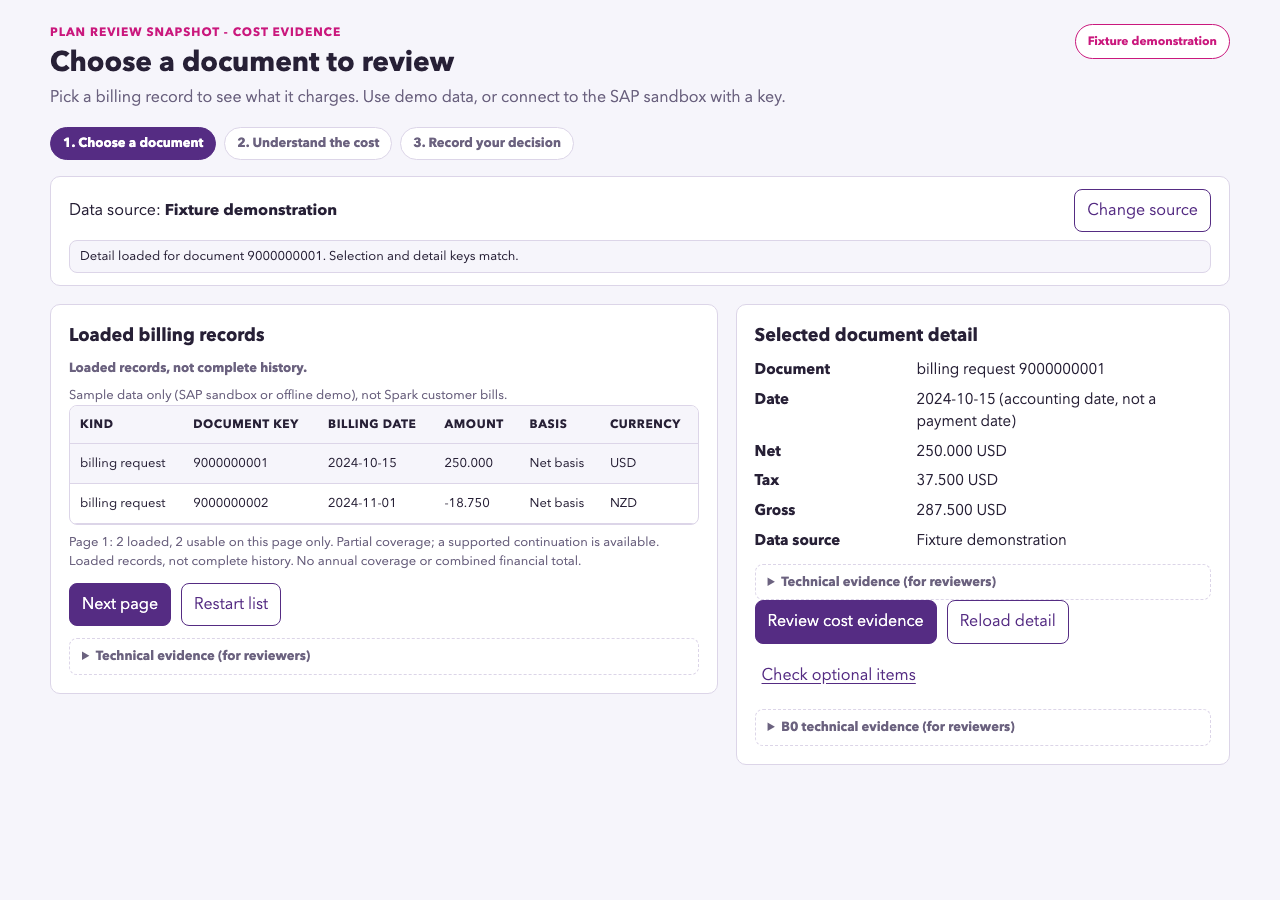
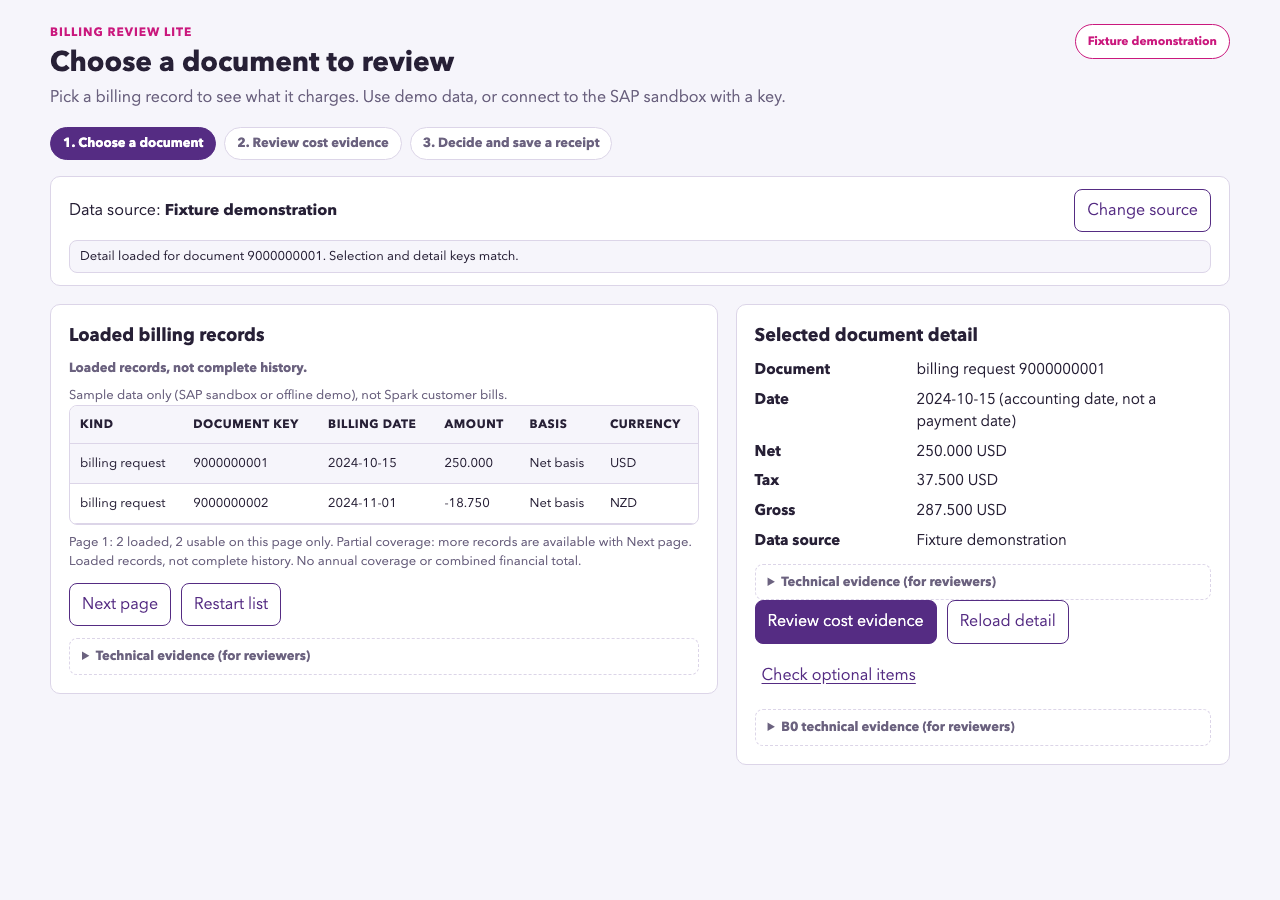
docs(#36): records and after screenshots for the usability polish

diff --git a/docs/development/issue-36-opencode.md b/docs/development/issue-36-opencode.md
@@ -7,15 +7,16 @@
 - **Tool:** OpenCode.
 - **Model:** `opencode` / `deepseek-v4.1-flash-free` (DeepSeek V4.1 Flash Free), used for the
   whole task.
-- **Session:** one continuous OpenCode session covered Parts 0–5 on this single branch. No
-  other project or branch was driven by this session for #36.
+- **Session:** one continuous OpenCode session covered Parts 0–7: branch
+  `feat/36-usability-hierarchy` (Parts 0–6) and this follow-up branch
+  `feat/36-usability-polish` (Part 7). No other project was driven by this session for #36.
 - No credentials, keys or tokens are recorded here. Independent review/acceptance evidence is
   kept separately in [issue-36-acceptance.md](../validation/issue-36-acceptance.md), and the
   before/after captures are in `docs/validation/issue-36-*-*.png`.
 
-## Prompts used (Parts 0–6)
+## Prompts used (Parts 0–7)
 
-The user issued six sequential work orders, each a self-contained part of the same task.
+The user issued seven sequential work orders, each a self-contained part of the same task.
 In summary:
 
 1. **Part 0 — setup and baseline.** Create `feat/36-usability-hierarchy` from `origin/main`;
@@ -40,6 +41,12 @@ In summary:
    the top status line current when the decision step opens, when going back to cost
    evidence, and after a verified save; add one test for the step indicator, the lead text
    and those status lines; re-take the "after" screenshots; and refresh both records.
+8. **Part 7 — usability polish (follow-up PR).** Make the step names match the screen
+   headings; name the "Fixture demonstration" label on the demo button; show the product
+   name "Billing Review Lite" in the eyebrow; make Next page a secondary button; move one
+   audit sentence into the cost technical section; add a Net/Tax/Gross explanation; use
+   plain words in two status texts; add one test; re-take the "after" screenshots. Work is
+   on branch `feat/36-usability-polish`.
 
 Only the files named in each part were touched. `app/lib/`, `app/server.js`, `app/package.json`
 and `app/package-lock.json` were never modified, no package was installed, and no new file
@@ -56,8 +63,9 @@ was added under `app/`.
 | 4 | `d51c9c6e187dfde4d9f7ea63e93ba75e7118da13` | `app/index.html`, `app/styles.css`, `app/app.mjs`, `app/tests/browser.mjs`, `app/tests/issue-27.mjs`, `app/README.md`, `README-SOURCE.md` | 172/172 pass (167 + 5 new); FAIL list unchanged |
 | 5 | (this record's commit) | `docs/validation/issue-36-*.png`, `docs/validation/issue-36-acceptance.md`, `docs/development/issue-36-opencode.md` | 172/172 pass on the unchanged code head |
 | 6 | `d71cb9896d092e68f196a842319052a374f5ac3e` | `app/index.html`, `app/app.mjs`, `app/tests/browser.mjs`, `docs/validation/issue-36-after-*.png`, `docs/validation/issue-36-acceptance.md`, `docs/development/issue-36-opencode.md` | 173/173 pass; FAIL list empty |
+| 7 | `3cb9de943fa9c428539f718d15e7cfbdaacb3268` | `app/index.html`, `app/app.mjs`, `app/tests/browser.mjs`, `app/tests/issue-9.mjs`, `README-SOURCE.md`, `app/README.md`, `docs/validation/issue-36-after-*.png`, `docs/validation/issue-36-acceptance.md`, `docs/development/issue-36-opencode.md` | 174/174 pass; FAIL list empty |
 
-Final summary line on the code-bearing head: **`All 173 tests passed.`** No inherited test
+Final summary line on the code-bearing head: **`All 174 tests passed.`** No inherited test
 assertion was weakened; the only test-line edits were the exact expected-UI-string
 replacements listed below.
 
@@ -67,10 +75,16 @@ replacements listed below.
   → `'Try with demo data'`.
 - `app/tests/issue-27.mjs`: regex `/^Unsaved — storage write or read-back verification failed/`
   → `/^Unsaved — we could not confirm your receipt was saved/`.
+- `app/tests/issue-9.mjs`: `#receipt-status` regex `/read-back verified/` →
+  `/stored and checked/` (plain wording).
+- `app/tests/browser.mjs` (in `issue 36: step indicator, lead text and status follow the
+  current screen`): step-indicator regex `/Understand the cost/` → `/Review cost evidence/`.
+- `app/tests/browser.mjs` (same test): step-indicator regex `/Record your decision/` →
+  `/Decide and save a receipt/`.
 
-## New `issue 36` tests (added in Parts 4 and 6)
+## New `issue 36` tests (added in Parts 4, 6 and 7)
 
-All six use `rawNewContext` so the UI runs in its real default state (collapsed connection
+All seven use `rawNewContext` so the UI runs in its real default state (collapsed connection
 panel, closed disclosures). They passed in the final run:
 
 - `issue 36: connection panel collapses after choosing a source and Change source reopens it by keyboard`
@@ -79,6 +93,7 @@ panel, closed disclosures). They passed in the final run:
 - `issue 36: saved confirmation names the intent, document and gross amount`
 - `issue 36: no horizontal page scroll on all three screens at 390px and 1280px`
 - `issue 36: step indicator, lead text and status follow the current screen`
+- `issue 36: names stay consistent and the amount card explains Net, Tax and Gross`
 
 ## Verification
 

diff --git a/docs/validation/issue-36-acceptance.md b/docs/validation/issue-36-acceptance.md
@@ -28,6 +28,27 @@ key was used, no upstream request was made, and no participant was involved.
 - Pre-existing failures carried from the Part 0 baseline at `origin/main` `28aee9d`:
   **none** (the baseline FAIL list was empty).
 
+## Follow-up polish (Part 7)
+
+Branch `feat/36-usability-polish`, based on `feat/36-usability-hierarchy` (PR #40).
+Code-bearing head tested: `3cb9de943fa9c428539f718d15e7cfbdaacb3268`
+(`feat(#36): consistent names, Net/Tax/Gross help and plainer status copy`). The "after"
+screenshots were re-taken on this head; the "before" screenshots are unchanged.
+
+| Change | Heuristic (Nielsen H1–H10) |
+|---|---|
+| Step names now match the screen headings ("2. Review cost evidence", "3. Decide and save a receipt") | H4 Consistency and standards |
+| The demo button names its own label ("Try with demo data (Fixture demonstration)"), matching the "Fixture demonstration" provenance shown after loading | H4 Consistency and standards |
+| The eyebrow shows the product name "Billing Review Lite" instead of a screen-specific label | H4 Consistency and standards |
+| Screen 1 has a single filled main button, and "Next page" became a secondary button | H8 Aesthetic and minimalist design |
+| The "Reported figures remain exactly as returned…" audit sentence moved from the top of the cost screen into the "Technical evidence (for reviewers)" disclosure | H8 Aesthetic and minimalist design |
+| New "Net is the amount before sales tax…" explanation in the amount card | H10 Help and documentation |
+| Plain status texts: "Partial coverage: more records are available with Next page." and "Saved — your receipt was stored and checked." | H2 Match between system and the real world |
+
+Covering test: `issue 36: names stay consistent and the amount card explains Net, Tax and
+Gross`. Final `npm test` summary line on this head: **`All 174 tests passed.`** (167 pre-#36
+tests + 7 new `issue 36` tests); FAIL list empty.
+
 ## Limits
 
 This is a fixture-based browser check of the shipped `app/` UI at 1280×900 and 390×844. It
@@ -54,6 +75,5 @@ merge.
   messages stay in the top status area, which remains visible on every screen when the
   connection panel is collapsed, and it is updated at each step.
 - Disconnect / reset is still shown before a source is connected.
-- The page summary under the list ("a supported continuation is available") and the saved
-  status ("receipt write and read-back verified") keep their existing wording, because many
-  existing tests assert it.
+- The list summary on the last page ("Explicitly bounded fixture coverage exhausted…" /
+  "Continuation exhausted…") keeps its existing wording, because existing tests assert it.
